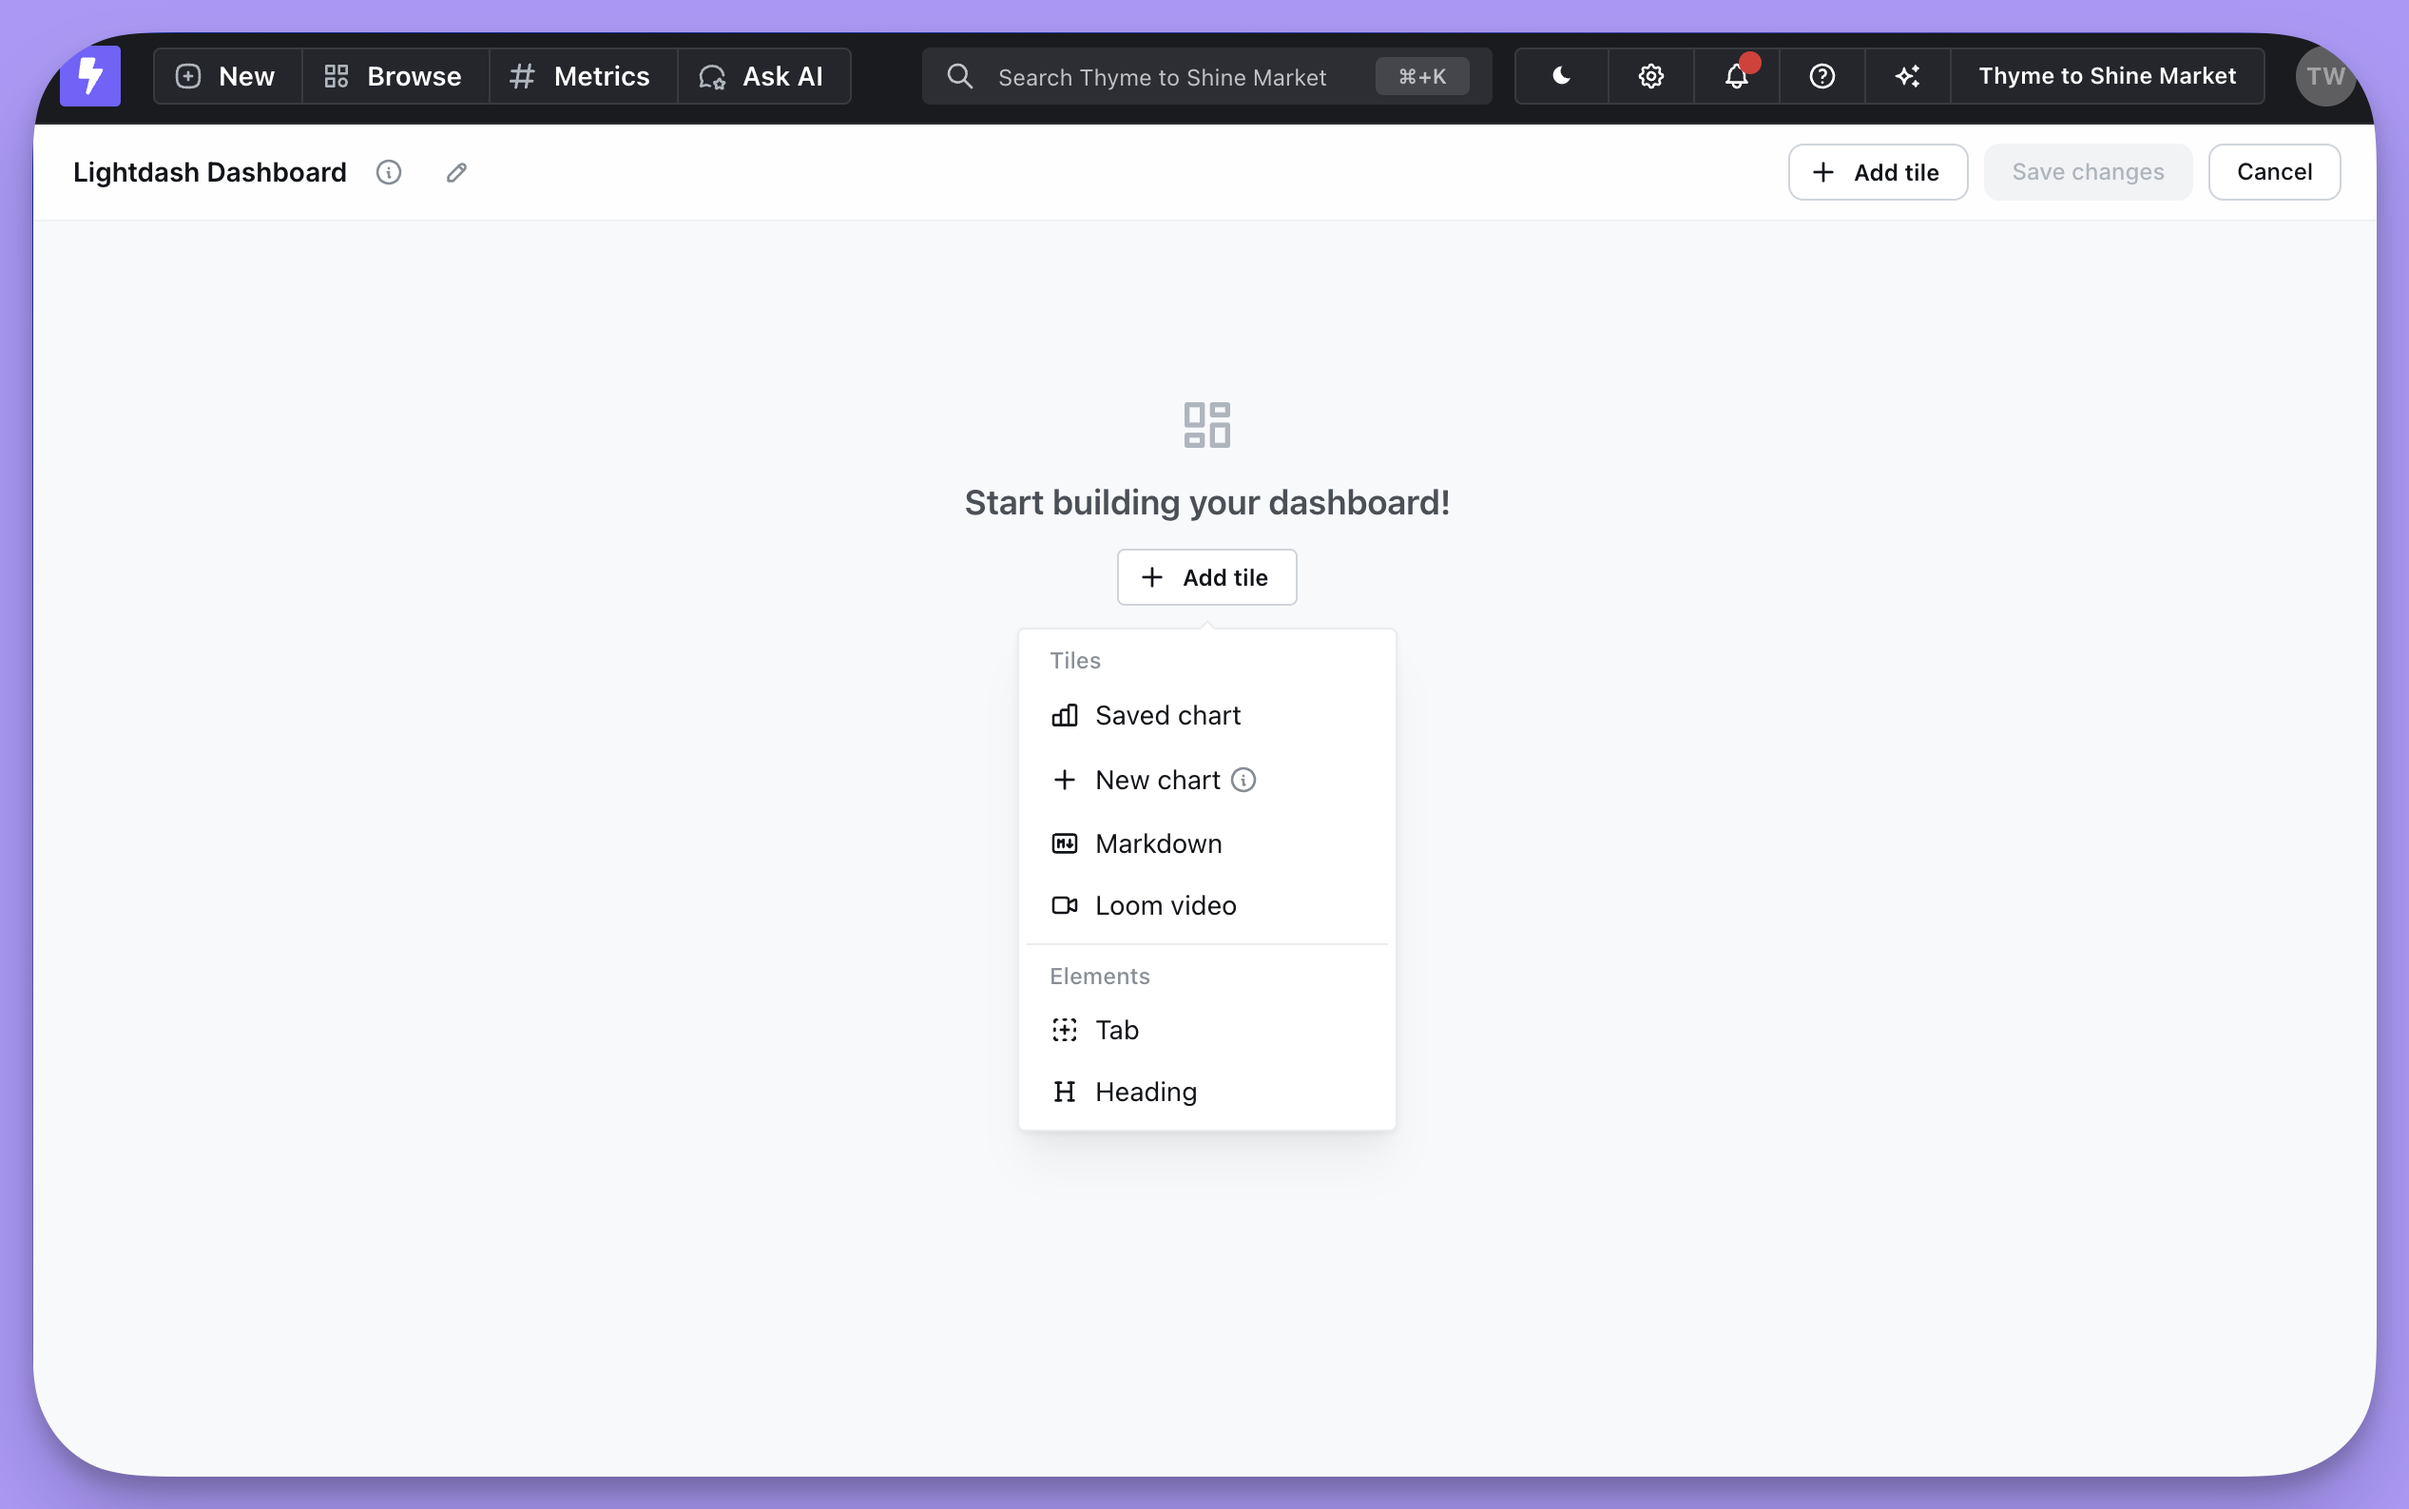
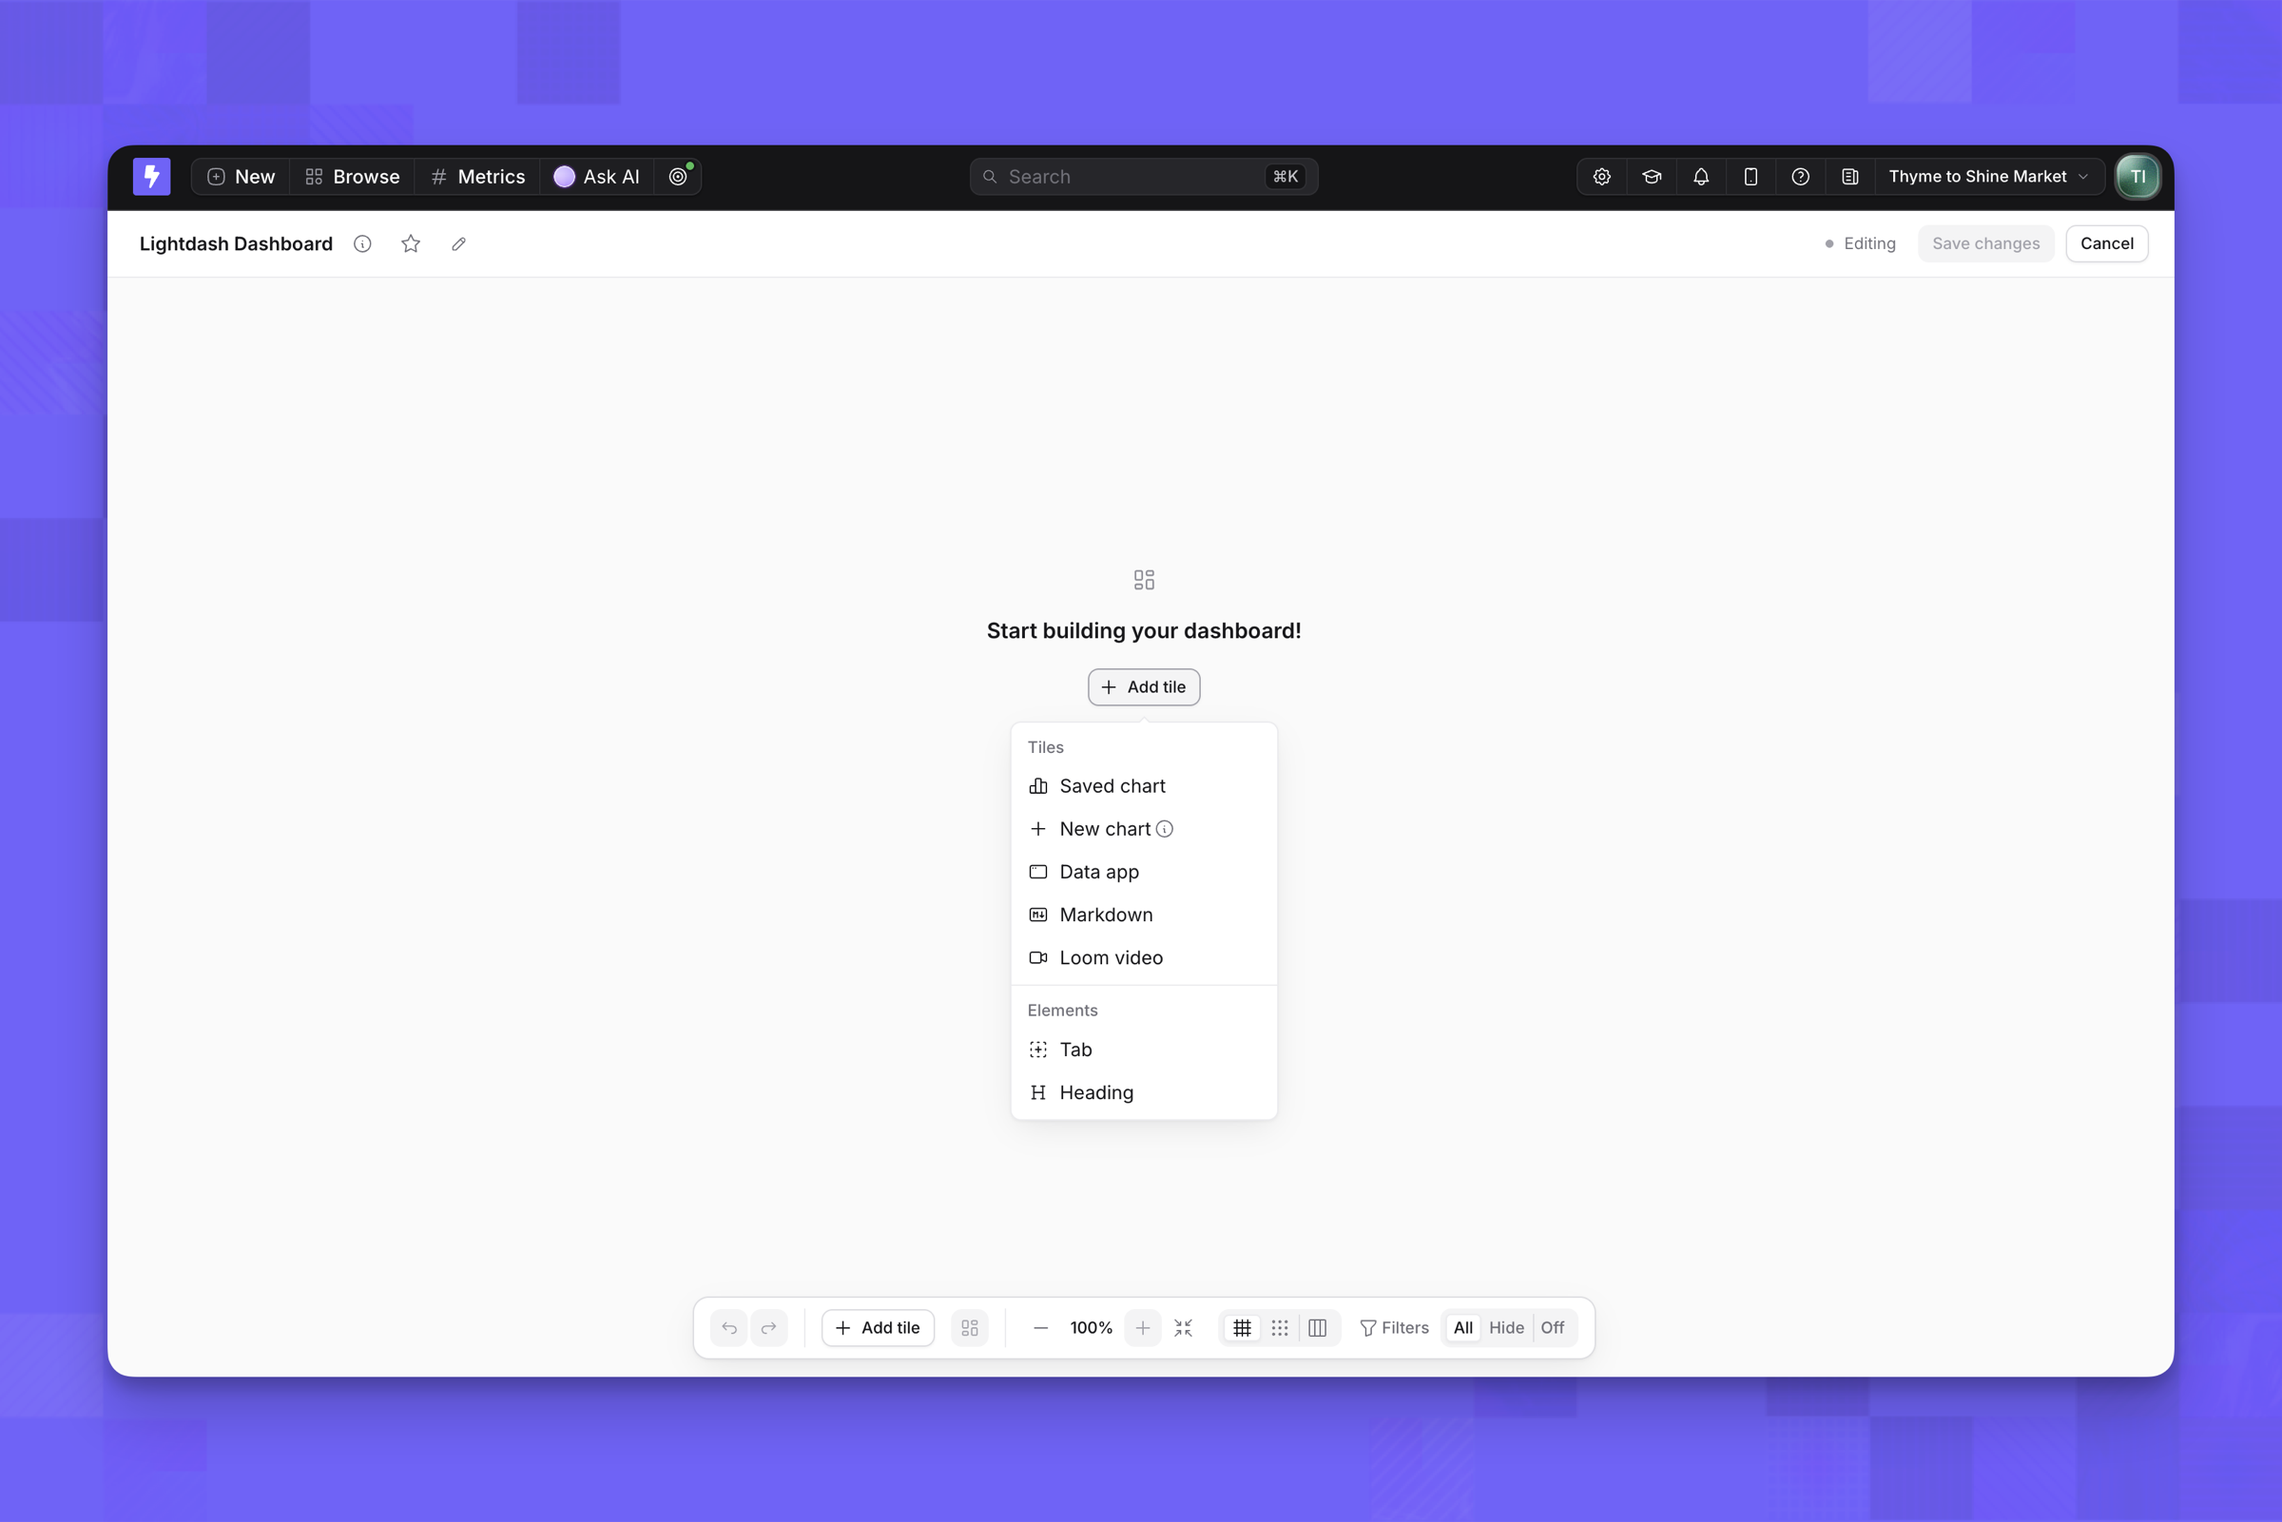
docs(dashboards): show the layout tools in a carousel and refresh the editing screenshots

diff --git a/snippets/feature-carousel.jsx b/snippets/feature-carousel.jsx
@@ -1,0 +1,67 @@
+{/* Mintlify evaluates each snippet export in isolation inside the page's MDX
+    scope, so everything the component references must live inside this one
+    export.
+
+    The carousel only presents: titles, descriptions and media are passed in
+    by the page that owns them. Every description is rendered at once and
+    stacked in one grid cell so the card keeps the height of the longest one
+    and the controls never jump between slides.
+
+    Layout and colour live in styles.css under .feature-carousel. */}
+
+export const FeatureCarousel = ({ label, items }) => {
+  const [active, setActive] = useState(0);
+  const count = items.length;
+  const go = (index) => setActive((index + count) % count);
+
+  const onKeyDown = (event) => {
+    if (event.key === "ArrowRight") go(active + 1);
+    if (event.key === "ArrowLeft") go(active - 1);
+  };
+
+  const chevron = (
+    <span className="svg-icon" style={{ "--svg-icon": 'url("/images/icons/chevron-right.svg")', "--svg-icon-size": "18px" }} aria-hidden="true" />
+  );
+
+  const current = items[active];
+
+  return (
+    <section className="feature-carousel" aria-roledescription="carousel" aria-label={label} onKeyDown={onKeyDown}>
+      <Frame>
+        <img key={current.image} src={current.image} alt={current.alt} />
+      </Frame>
+      <div className="feature-carousel-text" aria-live="polite">
+        {items.map((item, index) => (
+          <div
+            key={item.title}
+            className={`feature-carousel-slide${index === active ? " is-active" : ""}`}
+            aria-hidden={index !== active}
+          >
+            <p className="feature-carousel-title">{item.title}</p>
+            <p className="feature-carousel-description">{item.description}</p>
+          </div>
+        ))}
+      </div>
+      <div className="feature-carousel-controls">
+        <button type="button" className="feature-carousel-arrow is-previous" aria-label="Previous" onClick={() => go(active - 1)}>
+          {chevron}
+        </button>
+        <div className="feature-carousel-dots">
+          {items.map((item, index) => (
+            <button
+              key={item.title}
+              type="button"
+              className={`feature-carousel-dot${index === active ? " is-active" : ""}`}
+              aria-label={`${item.title} (${index + 1} of ${count})`}
+              aria-current={index === active ? "true" : undefined}
+              onClick={() => go(index)}
+            />
+          ))}
+        </div>
+        <button type="button" className="feature-carousel-arrow" aria-label="Next" onClick={() => go(active + 1)}>
+          {chevron}
+        </button>
+      </div>
+    </section>
+  );
+};

diff --git a/styles.css b/styles.css
@@ -916,3 +916,116 @@ html.dark .setup-path {
     transition: none;
   }
 }
+
+
+/* Feature carousel (snippets/feature-carousel.jsx). Shares the setup path
+   picker's neutral greys so the screenshots are the only colour. */
+.feature-carousel {
+  --feature-carousel-line: #e2e2e8;
+  --feature-carousel-surface: #f5f5f7;
+  --feature-carousel-ink: #16151d;
+  --feature-carousel-muted: #5d5c69;
+  --feature-carousel-faint: #b9b8c4;
+  --feature-carousel-accent: #8072ff;
+  display: grid;
+  gap: 0.75rem;
+  margin: 1.5rem 0;
+  padding: 1rem;
+  border: 1px solid var(--feature-carousel-line);
+  border-radius: 1rem;
+  color: var(--feature-carousel-ink);
+}
+
+html.dark .feature-carousel {
+  --feature-carousel-line: #2d2d38;
+  --feature-carousel-surface: #1b1b22;
+  --feature-carousel-ink: #efeff3;
+  --feature-carousel-muted: #a5a5b2;
+  --feature-carousel-faint: #4a4a57;
+}
+
+.feature-carousel p {
+  margin: 0;
+}
+
+/* One ratio for every slide, so a tall screenshot can't resize the card */
+.feature-carousel img {
+  width: 100%;
+  aspect-ratio: 5 / 3;
+  object-fit: cover;
+  margin: 0;
+}
+
+.feature-carousel-text {
+  display: grid;
+}
+
+.feature-carousel-slide {
+  grid-area: 1 / 1;
+  display: grid;
+  gap: 0.25rem;
+  align-content: start;
+  visibility: hidden;
+}
+
+.feature-carousel-slide.is-active {
+  visibility: visible;
+}
+
+.feature-carousel-title {
+  font-weight: 600;
+}
+
+.feature-carousel-description {
+  color: var(--feature-carousel-muted);
+}
+
+.feature-carousel-controls {
+  display: flex;
+  align-items: center;
+  justify-content: space-between;
+  gap: 0.75rem;
+}
+
+.feature-carousel-arrow {
+  display: grid;
+  place-items: center;
+  width: 2rem;
+  height: 2rem;
+  border: 1px solid var(--feature-carousel-line);
+  border-radius: 999px;
+  color: var(--feature-carousel-ink);
+  cursor: pointer;
+}
+
+.feature-carousel-arrow:hover {
+  background: var(--feature-carousel-surface);
+}
+
+.feature-carousel-arrow.is-previous .svg-icon {
+  transform: rotate(180deg);
+}
+
+.feature-carousel-dots {
+  display: flex;
+  gap: 0.5rem;
+}
+
+.feature-carousel-dot {
+  width: 0.5rem;
+  height: 0.5rem;
+  padding: 0;
+  border-radius: 999px;
+  background: var(--feature-carousel-faint);
+  cursor: pointer;
+}
+
+.feature-carousel-dot.is-active {
+  background: var(--feature-carousel-accent);
+}
+
+.feature-carousel-arrow:focus-visible,
+.feature-carousel-dot:focus-visible {
+  outline: 2px solid var(--feature-carousel-accent);
+  outline-offset: 2px;
+}
